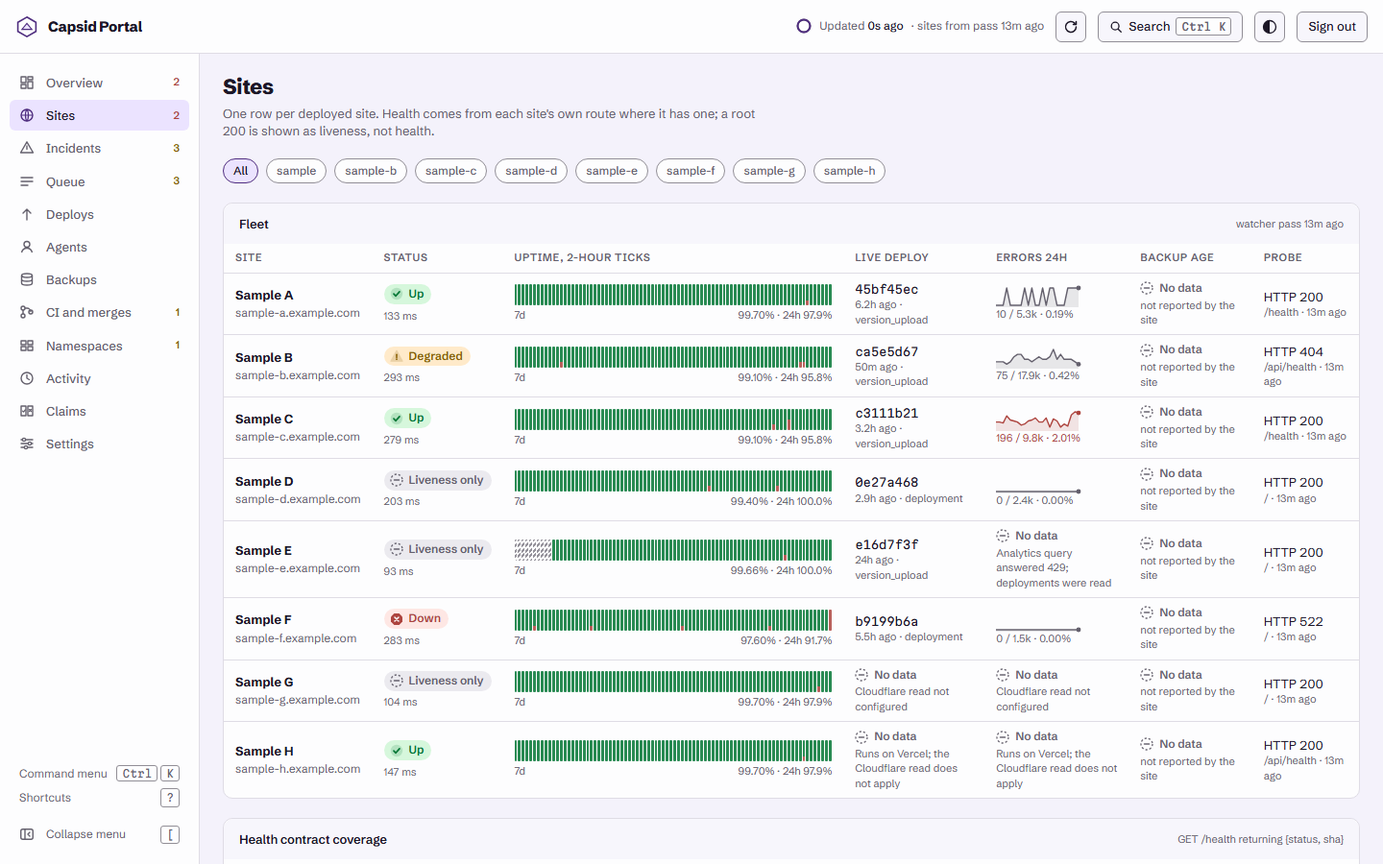
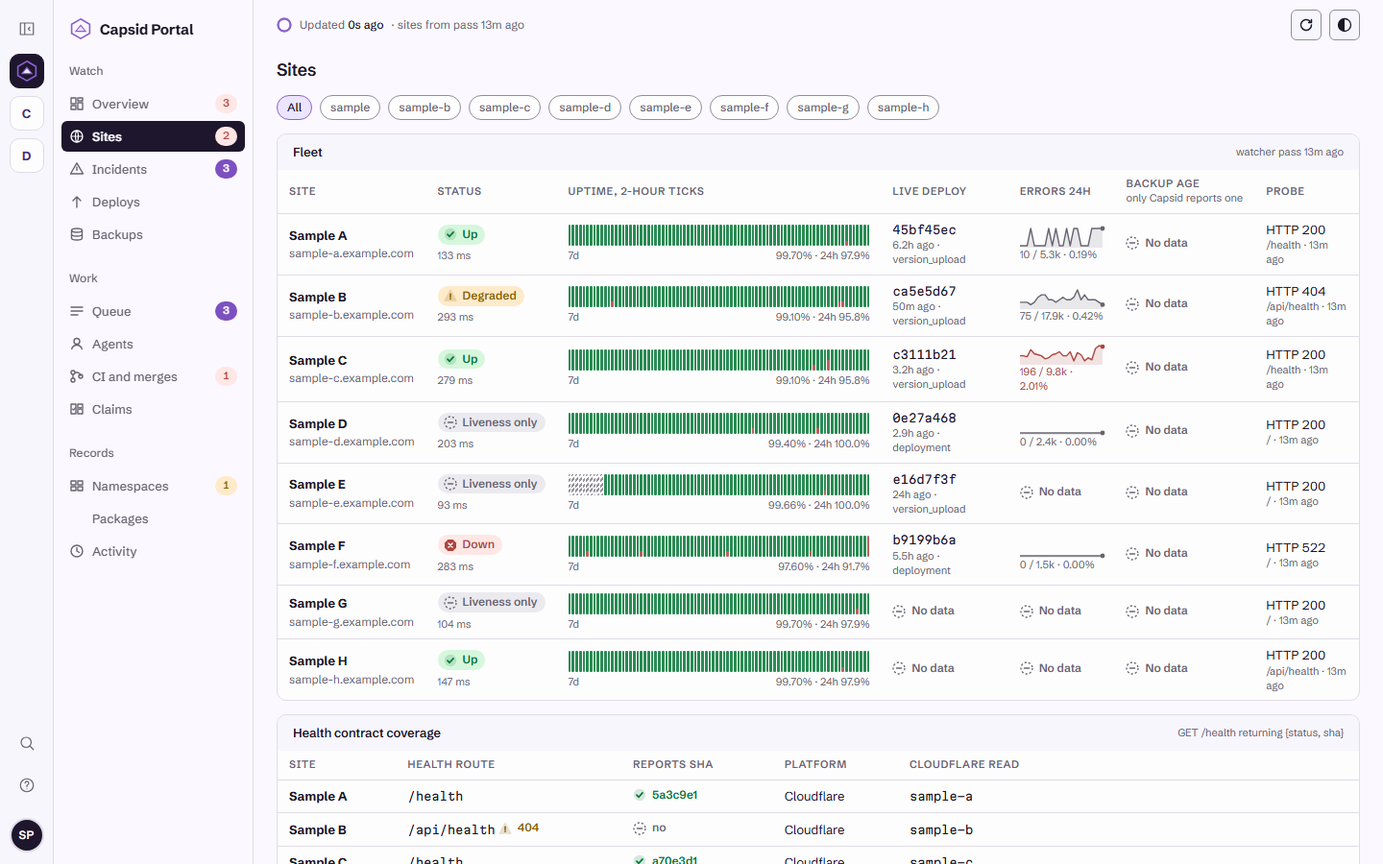
README and docs match the code: SDK 1.31.0, claim limit, job edit and stale, single-use controls from the registry, auto-merge on capsid, /ops/inbox, current Portal menu and screenshots

diff --git a/dashboard/screenshots/portal.shots.ts b/dashboard/screenshots/portal.shots.ts
@@ -9,7 +9,7 @@ import { SHOTS_NOW } from "./clock.ts";
 // dev/mock-api.ts seeds; scripts/shots-privacy.mjs has checked both before this runs).
 // Run: npm run build, then npm run shots. Each PNG lands in the repo's docs/images.
 //
-// Nothing here performs a control: the Namespaces shot stops at the preview, and the
+// Nothing here performs a control: the control shot stops at the preview, and the
 // mock's state is never changed.
 
 const OUT = fileURLToPath(new URL("../../docs/images/", import.meta.url));
@@ -67,25 +67,26 @@ test("sites, light", async ({ page }) => {
 test("queue with a job drawer open, light", async ({ page }) => {
   await open(page, "queue");
   await page.locator('main [data-open^="job:"]').first().click();
-  const drawer = page.locator("aside.drawer.on");
+  const drawer = page.locator("dialog.drawer[open]");
   await expect(drawer).toBeVisible();
-  await expect(drawer).toHaveAttribute("aria-hidden", "false");
   await expect.poll(() => drawer.evaluate((el) => getComputedStyle(el).transform)).toBe("none");
   await shoot(page, "queue-drawer-light");
 });
 
-test("namespaces with a control's preview open, light", async ({ page }) => {
-  await open(page, "namespaces");
-  const row = page.locator("tr[data-row]").filter({ hasText: "sample-b" });
-  await row.getByRole("button", { name: "Pause", exact: true }).click();
-  const dialog = page.getByRole("dialog");
+// Pause is a switch now (e2e/switches.spec.ts), so the dialog shot uses Mark failed on a
+// queued job: the same preview, with the reason asked for first (as e2e/confirm.spec.ts).
+test("a control's preview open, light", async ({ page }) => {
+  await open(page, "queue");
+  await page.goto("queue/job/job_0cdf2803f0ba");
+  await page.getByRole("button", { name: "Mark failed", exact: true }).click();
+  const dialog = page.locator("dialog.confirm");
   await expect(dialog).toBeVisible();
   await dialog.getByLabel("Reason (required)").pressSequentially("maintenance window");
   await dialog.getByRole("button", { name: "Preview" }).click();
   await expect(dialog.getByText("What changes")).toBeVisible();
-  // Stops at the preview: "Do it" is on screen and never pressed.
-  await expect(dialog.getByRole("button", { name: "Do it" })).toBeVisible();
-  await shoot(page, "namespaces-preview-light");
+  // Stops at the preview: the perform button is on screen and never pressed.
+  await expect(dialog.getByRole("button", { name: "Mark failed", exact: true })).toBeVisible();
+  await shoot(page, "control-preview-light");
 });
 
 test("activity, light", async ({ page }) => {
@@ -104,5 +105,10 @@ test.describe("on a phone", () => {
   test("overview, light", async ({ page }) => {
     await open(page, "overview");
     await shoot(page, "phone-overview-light");
+  });
+
+  test("overview, dark", async ({ page }) => {
+    await open(page, "overview", "dark");
+    await shoot(page, "phone-overview-dark");
   });
 });

diff --git a/dashboard/dev/mock-api.ts b/dashboard/dev/mock-api.ts
@@ -242,10 +242,10 @@ function feed(nextRefresh: number, st: MockState): OpsFeed {
       decision:
         st.overnight === "subscription"
           ? {
-              decided_by: "Dustin Edwards",
+              decided_by: "Sample Person",
               decided_on: "2026-10-04",
-              ruling: "capsid/decisions.md, 2026-10-04: overnight runs may use the subscription, by Dustin's choice",
-              reasoning: "The use is personal, on Dustin's own repositories, and not shared.",
+              ruling: "capsid/decisions.md, 2026-10-04: overnight runs may use the subscription, by the owner's choice",
+              reasoning: "The use is personal, on the owner's own repositories, and not shared.",
               set_by: `access:${ACTOR}`,
               set_at: new Date(mockNow()).toISOString(),
               reason: st.overnightReason,
@@ -354,7 +354,7 @@ function plan(f: OpsFeed, action: PortalAction, params: Record<string, string>):
       return {
         summary: `Set the overnight run to ${value}.`,
         done: `The overnight run is now ${value}.`,
-        changes: [`overnight:mode: ${f.live.overnight.mode} -> ${value}`, ...(value === "subscription" ? ["Recorded with the switch: Dustin's decision of 2026-10-04 and its reasoning."] : [])],
+        changes: [`overnight:mode: ${f.live.overnight.mode} -> ${value}`, ...(value === "subscription" ? ["Recorded with the switch: the owner's decision of 2026-10-04 and its reasoning."] : [])],
         apply: (st) => {
           st.overnight = value as "api" | "subscription" | "off";
           st.overnightReason = params.reason?.trim() ?? "";

diff --git a/dashboard/e2e/switches.spec.ts b/dashboard/e2e/switches.spec.ts
@@ -188,8 +188,8 @@ test("PLANT: choosing the subscription records Dustin's decision, its date and i
   await expect(overnight(page)).toHaveAttribute("aria-checked", "true");
   await expect(message(page)).toContainText("The overnight run is now subscription.");
   const decision = page.locator("#overnight-decision");
-  await expect(decision).toContainText("Decision recorded: Dustin Edwards, 2026-10-04.");
-  await expect(decision).toContainText("overnight runs may use the subscription, by Dustin's choice");
+  await expect(decision).toContainText("Decision recorded: Sample Person, 2026-10-04.");
+  await expect(decision).toContainText("overnight runs may use the subscription, by the owner's choice");
   await expect(decision).toContainText("first supervised night");
   expect(await newestActivity(page)).toBe("portal.overnight");
 

diff --git a/README.md b/README.md
@@ -22,7 +22,7 @@ Capsid serves MCP over Streamable HTTP on two endpoints. Every caller resolves t
 - **`/ops/mcp`, bearer keys, for agents and cron.** A key is matched by its sha256. Scopes have five axes (namespaces, repos, tools, grants, blast-radius flags), and a new agent gets read on its named namespaces and no flags.
 - **Per-namespace driver keys.** `scripts/mint-agents.mjs` mints one driver agent per namespace and writes its key to a local file without printing it. A driver's `repos` axis is set from its namespace's live repo mapping.
 - **Per-job runner keys.** A session that the seat starts on GitHub's runners trades its GitHub OIDC token at `/ops/runner-key` for a key bound to one job (`src/runner-key.ts`). The token's claims are checked against the repo's own seat-session workflow, the `seat` environment and a GitHub-hosted runner. The key reaches a short list of tools, works only its own job, stops resolving when that job leaves its live states, and is issued once per start.
-- **Protocol version.** The installed `@modelcontextprotocol/sdk` is 1.29.0, whose `LATEST_PROTOCOL_VERSION` is `2025-11-25`, so that is what Capsid negotiates. List results already carry the `ttlMs` and `cacheScope` cache fields from MCP 2026-07-28 (`src/cache-hints.ts`). Under 2025-11-25 they are extra fields that a client may ignore.
+- **Protocol version.** `@modelcontextprotocol/sdk` is pinned to 1.31.0 in `package.json`, and an override makes the Agents SDK use that one copy. Its `LATEST_PROTOCOL_VERSION` is `2025-11-25` (read from the 1.31.0 package), so that is what Capsid negotiates. List results already carry the `ttlMs` and `cacheScope` cache fields from MCP 2026-07-28 (`src/cache-hints.ts`). Under 2025-11-25 they are extra fields that a client may ignore.
 - **Tools.** 37 tools. The count is not written down anywhere: `src/counts.ts` derives it from the keys of `TOOL_GRANTS` in `src/scope.ts`, and tests hold that table to the tools actually registered. Every tool in `tools/list` carries all four annotations (`readOnlyHint`, `destructiveHint`, `idempotentHint`, `openWorldHint`) from `src/tool-annotations.ts`. They are hints to the client and enforce nothing.
 
 ## The work queue and its gates
@@ -30,10 +30,11 @@ Capsid serves MCP over Streamable HTTP on two endpoints. Every caller resolves t
 A job is a title and a signed body; the body is the prompt a driver runs. The table is the source of truth for status, and every job is mirrored to `<namespace>/jobs/<id>.md` in the same batch as each transition, so `brief` and `search` see the queue. Detail: [docs/work-queue.md](docs/work-queue.md), [docs/autonomy.md](docs/autonomy.md).
 
 - **post.** The body is signed. `claim` verifies it first, and a job edited after signing is marked failed. `post` can require blast-radius flags (`required_flags`), a track record (`min_record`) and a reviewer (`review_required`).
-- **claim and heartbeat.** A claim is a four-hour lease, one claim per caller. `heartbeat` extends it, and a five-minute tick returns an expired lease to the queue.
-- **block.** A job that reaches a push, a deploy, a secret, a live migration or a merge stops with the exact command a person must run.
+- **claim and heartbeat.** A claim is a four-hour lease, and each held job keeps its own. A caller holds one claimed job unless the admin raised its `max_claims` on the `agents` tool, and never two jobs on the same repo (a design job is the exception). `claim` also returns the model Capsid picked for the job. `heartbeat` extends the lease, and a five-minute tick returns an expired lease to the queue.
+- **block.** A job that reaches a push, a deploy, a secret, a live migration or a merge stops with the exact command a person must run. With `question: true` it stops with a question instead, marked in `improve_status` and the Portal, and the seat answers in a resume note. A `block` or `complete` that names a pull request also reports any other open pull request in the repo that changes the same files.
 - **resume and the gate policy.** `resume` returns a blocked job with a fresh lease. A driver cannot approve its own gate with a plain resume. The signed gate policy defines three classes (`push_branch`, `open_pr`, `additive_migration`). A driver may resume its own job under the policy only when every class matched is a branch push or a pull request. An additive migration stays the seat's to approve, a list of never-approvable commands is checked first, and everything else waits on a person. Two corrections per job, then the admin must decide.
 - **review_required.** The driver cannot complete, block or fail a job carrying a pull request until a `REVIEW:` comment posted through Capsid by a `can_comment_pr` holder ends in `APPROVE`, `CHANGES` or `BLOCK`. An `APPROVE` counts only if it quotes the pull request's current head sha.
+- **edit and stale.** `edit` (the admin or a `can_merge` caller, never a driver) changes the title, body, priority or gate of a queued or blocked job. The body is signed again, the replaced version is kept and shown by `list` for that job, and an audit row is written. `list` with `stale: true` returns blocked or claimed jobs that look stuck: unchanged for three days, resumed by the merge-resume step and not finished in 24 hours, or blocked on pull requests that have all settled.
 - **supersede, release and admin fail.** `supersede` ends a job replaced before any work was done and writes no outcome row. `release` returns another credential's claimed job to the queue. The admin or a `can_merge` caller may `fail` a job someone else holds, which writes the holder's outcome row.
 
 ## Claims and verified outcomes
@@ -61,36 +62,43 @@ The Portal is the administrator's view of Capsid, one app served at `/portal/`, 
 
 ![Overview, dark](docs/images/overview-dark.png)
 
-The views, in menu order:
+The menu groups the views (`GROUPS` in `dashboard/src/app/App.tsx`):
 
-- **Overview**: what needs attention, the fleet of sites, deploys and downtime over seven days, the queue and open incidents.
-- **Sites**: each configured site, its probe results and a 7-day uptime ring. Shown only while at least one site is configured.
-- **Incidents**: the watcher's findings and its last pass.
-- **Queue**: every open job and every job that ended in the last day, by namespace, with seat-started sessions and live Claude Code sessions.
-- **Deploys**: a deploy timeline per site, read from Cloudflare.
-- **Agents**: the roster with each agent's record (last seen, jobs done, failed and blocked, pull requests merged, CI green, median job).
-- **Backups**: Capsid's own D1 backup and the off-account mirror.
-- **CI and merges**: default-branch CI, pull requests from the last seven days, and what auto-merge left for the seat.
-- **Namespaces**: each namespace as `improve_status` reports it.
-- **Activity**: the last 50 audit rows, filtered by namespace and actor.
-- **Claims**: what each agent said about its work beside what the Worker verified against GitHub, and every human touch of a job.
-- **Settings**: the site configuration.
+- **Watch**
+  - **Overview**: what needs attention, the fleet of sites, deploys and downtime over seven days, the queue and open incidents.
+  - **Sites**: each configured site, its probe results and a 7-day uptime ring. Shown only while at least one site is configured.
+  - **Incidents**: the watcher's findings and its last pass.
+  - **Deploys**: a deploy timeline per site, read from Cloudflare.
+  - **Backups**: Capsid's own D1 backup and the off-account mirror.
+- **Work**
+  - **Queue**: every open job and every job that ended in the last day, by namespace, with seat-started sessions and live Claude Code sessions.
+  - **Agents**: the roster with each agent's record (last seen, jobs done, failed and blocked, pull requests merged, CI green, median job).
+  - **CI and merges**: default-branch CI, pull requests from the last seven days, and what auto-merge left for the seat.
+  - **Claims**: what each agent said about its work beside what the Worker verified against GitHub, and every human touch of a job.
+- **Records**
+  - **Namespaces**: each namespace as `improve_status` reports it, with the automation switches.
+  - **Packages**: each configured npm package's versions, downloads, dependents and repository. Shown only while at least one package is configured.
+  - **Activity**: the last 50 audit rows, filtered by namespace and actor.
+
+Settings (the site and package configuration) is not in the menu: it is under the avatar's account panel as "Portal settings".
 
 ![Sites](docs/images/sites-light.png)
 
 ![Queue with a job drawer open](docs/images/queue-drawer-light.png)
 
-![Namespaces](docs/images/namespaces-preview-light.png)
+![A control's preview](docs/images/control-preview-light.png)
 
 ![Activity](docs/images/activity-light.png)
 
 ![Claims](docs/images/claims-light.png)
 
-The Portal has fifteen controls (`PORTAL_ACTIONS` in `src/portal-actions.ts`): `pause` and `unpause` a namespace, `reset_breaker` for a namespace's queue, set the improve loop's `mode`, turn the `seat_start` switch on or off, `resume_job`, `fail_job`, `release_job`, `revoke_agent`, `site_add`, `site_edit` and `site_remove`, and `package_add`, `package_edit` and `package_remove`. Each one is two requests. The preview reads current state, writes nothing, and returns what will change, the audit rows the perform will write, and a token signed with a key derived from `COOKIE_ENCRYPTION_KEY`. The token carries the action, its parameters and the admin's email, and expires after five minutes. The perform takes only that token, so what runs is what the dialog showed. A replay inside the five minutes is accepted by the token check; every transition is guarded on the state it moves from, so a second perform is refused or changes nothing. Both requests need the `X-Capsid-CSRF` header to match the `capsid_portal_csrf` cookie and refuse a cross-site `Sec-Fetch-Site`. The Portal cannot merge a pull request or mint a credential, and `test/portal-actions.test.ts` asserts that both are refused.
+The Portal's controls are the registry in `src/controls.ts` (`PORTAL_ACTIONS`); the same controls are available in chat through the admin-only `controls` tool, and the audit row says which door a change came through. They are the automation switches (pause and unpause a namespace, the improve loop's mode, seat start, the overnight run), resetting a namespace's circuit breaker, resuming, failing or releasing a job, revoking an agent, and adding, editing or removing a site or a package. Each one is two requests. The preview reads current state, writes nothing, and returns what will change, the audit rows the perform will write, and a token signed with a key derived from `COOKIE_ENCRYPTION_KEY` (token version 2). The token carries the action, its parameters and the admin's email, and expires after five minutes. The perform takes only that token, so what runs is what the dialog showed. A confirmation is single-use: the perform spends the token's id in KV before the control runs, and a second perform of the same token is refused with a 409. A token is spent even when the control then refuses, because the refusal is about state and the next preview shows it again. Every transition is also guarded on the state it moves from. Both requests need the `X-Capsid-CSRF` header to match the `capsid_portal_csrf` cookie and refuse a cross-site `Sec-Fetch-Site`. The Portal cannot merge a pull request or mint a credential, and `test/portal-actions.test.ts` asserts that both are refused.
 
 Optional panels stay hidden until they are configured. Which sites the watcher probes is configuration in the D1 table `ops_sites`, edited in Settings. With no row that has an origin, the watcher probes nothing and reads nothing from Cloudflare, and the Portal hides the Sites view and every site item on the Overview. Deploy and error columns need `CF_OPS_TOKEN`; until it is set they read "Cloudflare read not configured" rather than zero. A value the feed does not have is shown as "No data" with its reason. The Portal works at phone width.
 
 ![Phone overview](docs/images/phone-overview-light.png)
+
+![Phone overview, dark](docs/images/phone-overview-dark.png)
 
 ## Security model
 
@@ -254,10 +262,12 @@ Those are a clone's defaults. On this deployment the pre-approved gates were ena
 - `POST /mcp` MCP over Streamable HTTP, requires an OAuth access token (admin only)
 - `POST /ops/mcp` MCP over Streamable HTTP for agents and cron, requires an agent or operator key as `Authorization: Bearer <key>`
 - `POST /ops/otlp/v1/metrics`, `POST /ops/otlp/v1/logs` Claude Code's OpenTelemetry as OTLP/HTTP JSON, gzip or plain, at most 1MB. A driver key, a runner key or the admin key as `Authorization: Bearer <key>` (401 without one, 403 for a read-only key). Keeps usage totals per session and a count of api_error events; never a prompt, a response or tool content (docs/telemetry.md)
+- `GET /ops/inbox` what needs Dustin, per app: blocked jobs and questions, pull requests auto-merge declined, failing CI, a site that is down. Read by an app's server with a bearer key; a key scoped to one namespace sees that app only, the admin sees every app, and the response carries no CORS headers (docs/portal.md)
+- `POST /ops/runner-key` a seat-started session trades its GitHub OIDC token for a key bound to one job (docs/seat-start.md)
 - `POST /ops/hooks` Claude Code HTTP hook events, requires a driver or runner key as `Authorization: Bearer <key>`; keeps a summary of each session, never a prompt, response or tool content (docs/hooks.md)
 - `POST /ops/backup` runs a backup on demand, requires the admin (a write-grant operator key; a minted agent gets 403), returns a JSON summary
 - `GET /authorize`, `POST /authorize`, `GET /callback` the MCP sign-in, through Cloudflare Access for SaaS
-- `GET /portal/`, `GET /portal/callback`, `GET /portal/api/ops`, `POST /portal/api/ops/refresh`, `POST /portal/api/actions/preview`, `POST /portal/api/actions/perform`, `GET /portal/api/namespaces`, `GET /portal/api/activity`, `GET /portal/api/claims`, `GET /portal/api/packages/history`, `POST /portal/api/sign-out` Capsid Portal: the app's files, its sign-in return, its feed, an on-demand watcher pass (header `X-Capsid-Ops: refresh`, once per two minutes), the fifteen controls as a preview and a perform (header `X-Capsid-CSRF`), the namespaces, activity, claims and package history reads, and sign out. Admin session only; a bearer token is refused with 403 (docs/portal.md). Nothing answers under `/console`
+- `GET /portal/`, `GET /portal/callback`, `GET /portal/api/ops`, `POST /portal/api/ops/refresh`, `POST /portal/api/actions/preview`, `POST /portal/api/actions/perform`, `GET /portal/api/namespaces`, `GET /portal/api/activity`, `GET /portal/api/claims`, `GET /portal/api/packages/history`, `POST /portal/api/sign-out` Capsid Portal: the app's files, its sign-in return, its feed, an on-demand watcher pass (header `X-Capsid-Ops: refresh`, once per two minutes), the controls as a preview and a perform (header `X-Capsid-CSRF`), the namespaces, activity, claims and package history reads, and sign out. Admin session only; a bearer token is refused with 403 (docs/portal.md). Nothing answers under `/console`
 - `POST /csp-report` no auth. Content-Security-Policy and COOP violation reports, per-IP rate limited, and refused with a 503 when the limiter cannot read its counters
 - `POST /improve/score` the signed score report a roster repo's CI posts back
 - `POST /improve/holdout-credential` mints the one-hour, object-read-only credential the score job reads the holdout suite with
@@ -292,7 +302,7 @@ Those are a clone's defaults. On this deployment the pre-approved gates were ena
 - **Not multi-user.** It admits one identity, `ADMIN_EMAIL`, for both logins. Agents are credentials that person mints, not other users.
 - **Not a hosted service.** Each install is its own Worker on its own Cloudflare account. The deployment this repo runs is for its author.
 - **Not a general agent framework.** It stores memory, issues scoped keys, runs a job queue and relays GitHub operations through a GitHub App. It does not run models itself except in the optional loop's api mode.
-- **Not a replacement for code review.** Drivers open pull requests and never merge them. Merges are made by the seat, or, for namespaces a signed auto-merge policy lists, by the Worker when that policy's checks pass. capsid's own pull requests are never auto-merged. CI and the hidden holdout tests measure changes; they do not review intent.
+- **Not a replacement for code review.** Drivers open pull requests and never merge them. Merges are made by the seat, or, for namespaces a signed auto-merge policy lists, by the Worker when that policy's checks pass. The signed policy (version 5) lists dustinedwards, capsid, carrel and capsomer. A pull request merges itself only when every check passes: an allowed author, a driver's job that handed the pull request on, the job's own recorded pull request, green CI with the repo's required steps run, and no changed path on the refused list. What always waits for the seat: the judges and policy sources, job transitions, auth, migrations, workflows, lockfiles, `package.json`, wrangler configuration and the live gate ([docs/autonomy.md](docs/autonomy.md)). A capsid merge is a production deploy. CI and the hidden holdout tests measure changes; they do not review intent.
 - **The improve loop does not merge,** does not edit tests, CI or its own scoring, and does not touch a project that is not on the roster ([docs/improve.md](docs/improve.md)).
 - **The Portal does not merge or mint.**
 - **Not listed in an MCP directory.** It has not been submitted to any MCP directory or registry.

diff --git a/docs/auth.md b/docs/auth.md
@@ -59,7 +59,7 @@ Audit rows and `jobs.claimed_by` record a minted agent as `agent:<name>`.
 
 **Four of these have never connected, and what each is waiting for is written down so an unused credential reads as a plan rather than a loose end.** `improve_status` shows `last_seen: null` for all four today.
 
-- `seat` is not what auto-merge uses. `capsid/policy/auto-merge.md` is signed and enabled, and the Worker merges a qualifying pull request itself on its cron tick (`src/improve/tick.ts`), on the namespaces the policy names. Version 5 names dustinedwards only, so capsid pull requests are merged by the seat. The seat's key is for a seat session working through `/ops/mcp`, and its `last_seen` in `improve_status` shows whether one has.
+- `seat` is not what auto-merge uses. `capsid/policy/auto-merge.md` is signed and enabled, and the Worker merges a qualifying pull request itself on its cron tick (`src/improve/tick.ts`), on the namespaces the policy names. Version 5 names dustinedwards, capsid, carrel and capsomer; a pull request that touches a refused path, or fails any other check, waits for the seat. The seat's key is for a seat session working through `/ops/mcp`, and its `last_seen` in `improve_status` shows whether one has.
 - `reviewer` is used the first time a job is posted with `review_required`, since that is the only thing that waits for a `REVIEW:` comment. No job has been posted with it yet.
 - `auditor` is used by an outside model doing a cold audit, which is a thing a person starts rather than something the system reaches for.
 - `watcher` is different from the other three, and its `null` means something else. The tick has no bearer token to present, so it builds a SYNTHETIC watcher identity in `src/watcher.ts` shaped to match the minted role exactly, and `touchLastSeen` returns early for an agent with no row. The minted `watcher` key is therefore unused by construction, and its `last_seen` stays `null` however many findings the tick posts. What records that work is `audit_log`, where the actor is `agent:watcher` either way. The key is there for a person driving the watcher's checks by hand from outside the Worker.
@@ -103,5 +103,5 @@ List results carry the cache fields of MCP 2026-07-28 (`CacheableResult`), `ttlM
 
 What the clients do with them, as of 2026-09-29:
 
-- **Claude Code**, verified: it refreshes its tool list on `notifications/tools/list_changed`. On protocol 2026-07-28 it rejects a `tools/list` result that lacks `ttlMs` or `cacheScope` (anthropics/claude-code#88128). capsid's SDK (1.29.0) negotiates 2025-11-25, where the two fields are extra and ignored, so today they are forward-looking. Nothing shows Claude Code caching by `ttlMs`.
+- **Claude Code**, verified: it refreshes its tool list on `notifications/tools/list_changed`. On protocol 2026-07-28 it rejects a `tools/list` result that lacks `ttlMs` or `cacheScope` (anthropics/claude-code#88128). capsid's SDK (1.31.0) negotiates 2025-11-25, where the two fields are extra and ignored, so today they are forward-looking. Nothing shows Claude Code caching by `ttlMs`.
 - **claude.ai**, unknown: nothing observed shows whether it reads the annotations, the cache fields, or either. It is known to cache the tool list from connect time, so a deploy still needs a reconnect (docs/bootstrap.md, "Verifying a deploy").

diff --git a/docs/portal.md b/docs/portal.md
@@ -4,7 +4,7 @@ Capsid Portal is the administrator's view of Capsid, one app at https://portal.d
 
 **It moved from `/console` with no redirects.** Until the move, a server-rendered summary page answered at `/console` and this app at `/console/app/`. The move deleted that page, after every part of it had a replacement here (the design's section 5), and every `/console` address now answers the Worker's plain 404. A browser signed in at `/console` signs in once more at `/portal/`, because the old cookies were scoped to `Path=/console`.
 
-**It carries fifteen controls**, each on the row it changes:
+**Its controls are the registry in `src/controls.ts`**, each on the row it changes:
 - the job drawer: resume a blocked job, release a claimed one, mark a job failed;
 - the agent drawer: revoke an agent;
 - the Namespaces view: the Automation panel, with the seat-start switch, the improve loop's switch and its "Runs on" choice (Subscription or API), and the overnight run's switch with its own "Runs on" choice (choosing Subscription records Dustin's decision, its date and its reasoning, docs/overnight.md); one switch per roster namespace, On while it runs and Off while it is paused (pause and unpause); and reset the queue's circuit breaker when it is open;

diff --git a/docs/autonomy.md b/docs/autonomy.md
@@ -8,9 +8,11 @@ Both ship with `enabled: false`, and **both are now on**: gates since 2026-09-13
 The five-minute tick walks every open pull request on the namespaces the policy names
 and merges only those that pass all eleven checks, evaluated in order, each refusing on
 its own. **A merge is a deploy on any repo that deploys on merge to its default branch**,
-so passing these checks there ships to production with no human. That is why version 5
-names dustinedwards only: a capsid merge deploys the control plane, so capsid pull
-requests are merged by the seat (ruled 2026-09-25).
+so passing these checks there ships to production with no human. Version 5 names
+dustinedwards, capsid, carrel and capsomer: capsid was taken out on 2026-09-25 because a
+capsid merge deploys the control plane, and put back on 2026-10-07 (ruled by Dustin), with
+every refused path still waiting for the seat and the live gate's rollback as the backstop.
+carrel and capsomer joined for auto-merge only on 2026-10-08.
 
 | check | what it requires |
 | --- | --- |

diff --git a/CLAUDE.md b/CLAUDE.md
@@ -12,7 +12,7 @@ Read `capsid/conventions.md` (the portfolio rules) and `capsid/core.md` in Capsi
 - `npm ci --prefix dashboard` once before the dashboard checks. `npm --prefix dashboard run dev` serves the Portal with fake sample data.
 - Deploy: `npm run deploy` (builds the dashboard first and stops if the build or its size budget fails), then `EXPECT_SHA=<sha> npm run verify:live`.
 - Secrets: `npx wrangler secret put KEY`.
-- capsid pull requests are merged by the seat, never auto-merged (docs/policy/auto-merge.md). A merge to master is a production deploy, docs included.
+- capsid pull requests merge on green under the signed auto-merge policy unless they touch a refused path, and those wait for the seat (docs/autonomy.md). A merge to master is a production deploy, docs included.
 
 ## Rules
 

diff --git a/docs/images/README.md b/docs/images/README.md
@@ -31,7 +31,8 @@ The mock's clock and the browser's are both pinned to the fixture's own time
 | `overview-dark.png` | Overview, dark theme |
 | `sites-light.png` | Sites |
 | `queue-drawer-light.png` | Queue with a job's drawer open |
-| `namespaces-preview-light.png` | Namespaces with a Pause control's preview open (never performed) |
+| `control-preview-light.png` | A job's Mark failed control with its preview open (never performed) |
 | `activity-light.png` | Activity |
 | `claims-light.png` | Claims |
 | `phone-overview-light.png` | Overview on a phone, 390 x 844 |
+| `phone-overview-dark.png` | Overview on a phone, dark theme |
